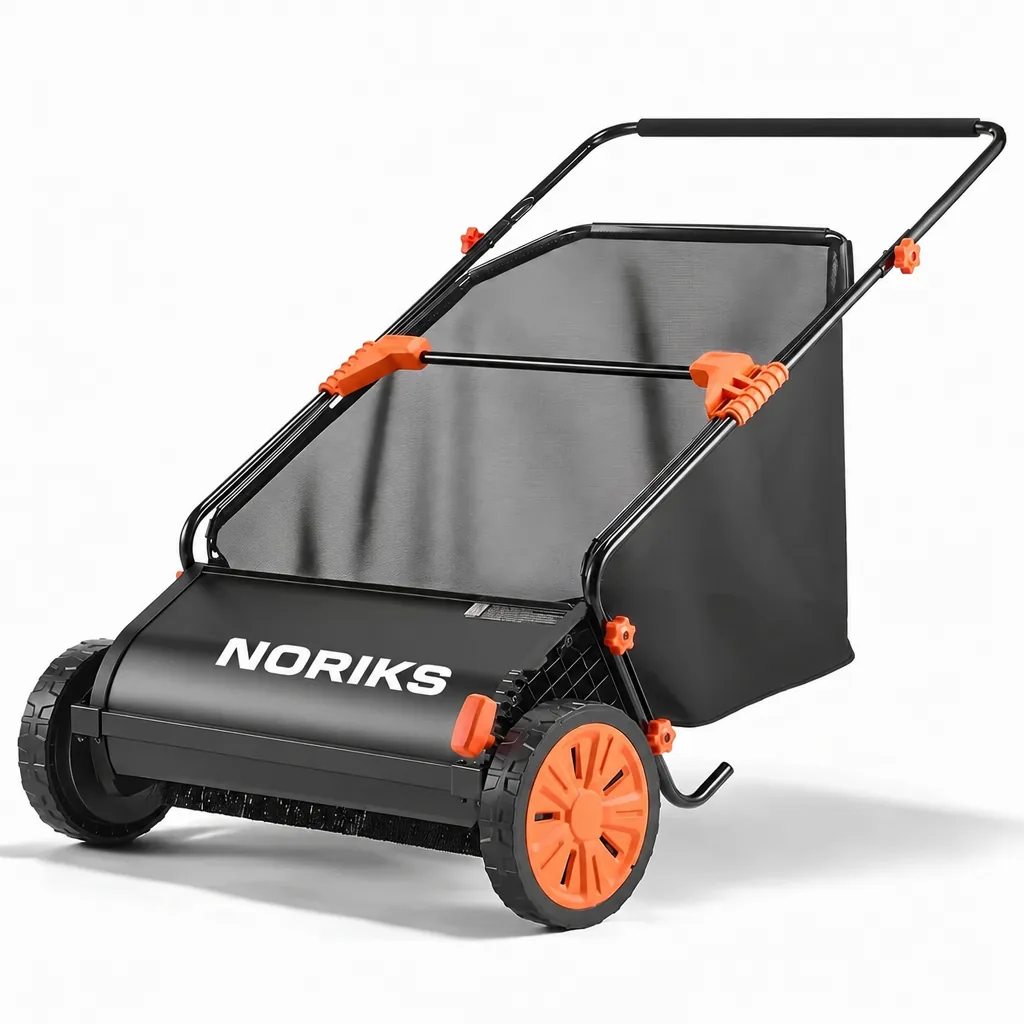
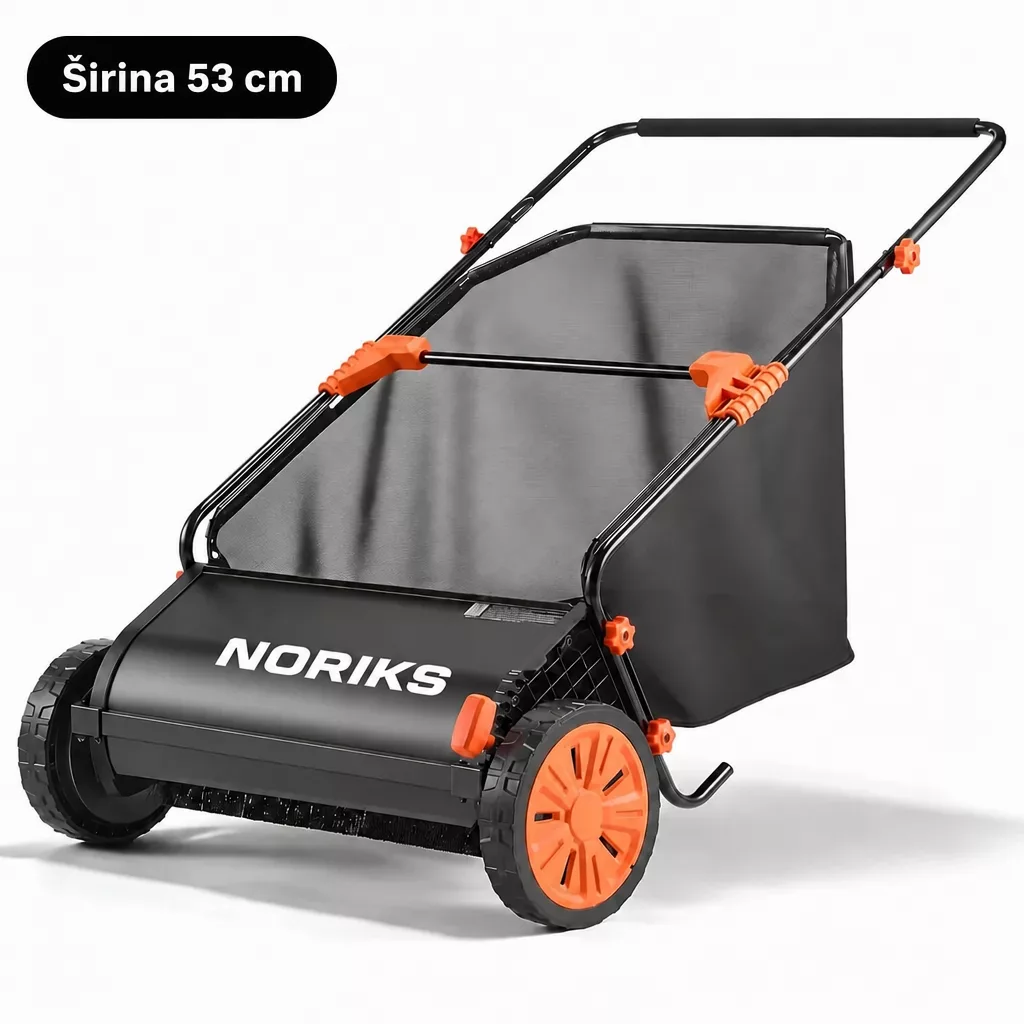
Sweeper: galerija spet 9 slik kot original (66 in 76 cm z NORIKS), napis sirine na slikah 53/66/76 cm, vsaka kartica ponude in sekcija velikosti s sliko svoje velikosti - po Davidovem komentarju

diff --git a/wp-content/themes/noriks/template_parts/product-bottom/why-sweeper.php b/wp-content/themes/noriks/template_parts/product-bottom/why-sweeper.php
@@ -25,7 +25,7 @@ if ( ! defined( 'ABSPATH' ) ) { exit; }
 <section class="wssweeper__s wssweeper__s--bg"><div class="wssweeper__v wssweeper__dva wssweeper__dva--rev"><div class="wssweeper__media wssweeper__media--cela"><img src="<?php echo esc_url( get_template_directory_uri() . '/img/sweeper/noriks-sweeper-otpad.webp' ); ?>" alt="Čisti puno više od samog lišća" loading="eager" decoding="async"></div><div><div class="wssweeper__kicker">Ne samo lišće</div><h2 class="wssweeper__h2">Čisti puno više od <em>samog lišća</em></h2><p class="wssweeper__p">Pokošena trava, lišće, borove iglice, slama, sitne grančice, žir, plodovi likvidambara, ljuske oraha i lagani filc nakon prozračivanja travnjaka – NORIKS Sweeper pokupi sve što vaše dvorište baci pred vas.</p><p class="wssweeper__p">Trostruke rotirajuće četke u obliku slova V zahvaćaju i teže, okrugle komade koji se grabljama provuku kroz zupce. Visinu četki podešavate u 10 razina, pa ih prilagodite gustoći trave i vrsti otpada.</p><p class="wssweeper__p">Radi i na tvrdim površinama: prilazu, pločniku, terasi i umjetnoj travi. Suhi izmet ljubimca koji leži na površini travnjaka također pokupi kao i ostali otpad.</p><ul class="wssweeper__kv"><li><em>Travnjak</em> – pokošena trava, lišće, iglice, filc</li><li><em>Teži otpad</em> – žir, češeri, orasi, grančice</li><li><em>Tvrde površine</em> – prilaz, staze, terasa, umjetna trava</li></ul><p class="wssweeper__zak">Jedan alat za cijelu sezonu – od proljetne košnje do jesenskog lišća.</p></div></div></section>
 <section class="wssweeper__s"><div class="wssweeper__v"><div class="wssweeper__kicker wssweeper__c">Fotografije kupaca</div><h2 class="wssweeper__h2 wssweeper__c">Najbolji travnjak – <em>bez rizika</em></h2><p class="wssweeper__p wssweeper__c">Isprobajte NORIKS Sweeper kod kuće. Ako vam ne olakša čišćenje dvorišta, vratite ga u 30 dana i dobivate povrat novca. Ovako izgleda njegov posao u dvorištima naših kupaca.</p><div class="wssweeper__grid wssweeper__g3"><div class="wssweeper__k"><div class="wssweeper__km"><img src="<?php echo esc_url( get_template_directory_uri() . '/img/sweeper/noriks-sweeper-kupac-1.webp' ); ?>" alt="Puna vreća lišća nakon jednog prolaza preko travnjaka" loading="eager" decoding="async"></div><div class="wssweeper__kt"><strong>Puna vreća lišća nakon jednog prolaza preko travnjaka</strong></div></div><div class="wssweeper__k"><div class="wssweeper__km"><img src="<?php echo esc_url( get_template_directory_uri() . '/img/sweeper/noriks-sweeper-kupac-2.webp' ); ?>" alt="Lišće skupljeno s umjetne trave uz ogradu" loading="eager" decoding="async"></div><div class="wssweeper__kt"><strong>Lišće skupljeno s umjetne trave uz ogradu</strong></div></div><div class="wssweeper__k"><div class="wssweeper__km"><img src="<?php echo esc_url( get_template_directory_uri() . '/img/sweeper/noriks-sweeper-kupac-3.webp' ); ?>" alt="Spreman za čišćenje prilaza ispred kuće" loading="eager" decoding="async"></div><div class="wssweeper__kt"><strong>Spreman za čišćenje prilaza ispred kuće</strong></div></div><div class="wssweeper__k"><div class="wssweeper__km"><img src="<?php echo esc_url( get_template_directory_uri() . '/img/sweeper/noriks-sweeper-kupac-4.webp' ); ?>" alt="Borove iglice pokupljene bez grablji" loading="eager" decoding="async"></div><div class="wssweeper__kt"><strong>Borove iglice pokupljene bez grablji</strong></div></div><div class="wssweeper__k"><div class="wssweeper__km"><img src="<?php echo esc_url( get_template_directory_uri() . '/img/sweeper/noriks-sweeper-kupac-5.webp' ); ?>" alt="Lagano guranje i po suhoj, neravnoj travi" loading="eager" decoding="async"></div><div class="wssweeper__kt"><strong>Lagano guranje i po suhoj, neravnoj travi</strong></div></div><div class="wssweeper__k"><div class="wssweeper__km"><img src="<?php echo esc_url( get_template_directory_uri() . '/img/sweeper/noriks-sweeper-kupac-6.webp' ); ?>" alt="Pokošena trava ravno u vreću nakon košnje" loading="eager" decoding="async"></div><div class="wssweeper__kt"><strong>Pokošena trava ravno u vreću nakon košnje</strong></div></div></div><p class="wssweeper__zak">★★★★★ Ocjena 4,8/5 – više od 120.000 zadovoljnih NORIKS kupaca.</p></div></section>
 <section class="wssweeper__s wssweeper__s--bg"><div class="wssweeper__v wssweeper__dva"><div class="wssweeper__media"><img src="<?php echo esc_url( get_template_directory_uri() . '/img/sweeper/noriks-sweeper-galerija-4.webp' ); ?>" alt="Lako se sprema kad je posao gotov" loading="eager" decoding="async"></div><div><div class="wssweeper__kicker">Spremanje</div><h2 class="wssweeper__h2">Lako se sprema <em>kad je posao gotov</em></h2><p class="wssweeper__p">NORIKS Sweeper je jednako jednostavno spremiti kao i koristiti. Sabirna vreća i ručka se skidaju, pa zauzima puno manje mjesta i stane u garažu ili vrtnu kućicu između dva čišćenja.</p><p class="wssweeper__p">Sklapanje je brzo: glavni dio stiže već sastavljen, a vi samo pričvrstite ručku i sabirnu vreću te podesite visinu četki. Za to vam ne treba poseban alat ni posebno znanje.</p><p class="wssweeper__p">Vreća je od materijala otpornog na trganje i lako se podiže kako biste je ispraznili u kontejner ili kompost – bez prosipanja i bez prljavih ruku.</p><ul class="wssweeper__kv"><li>Skidajuća ručka i sabirna vreća</li><li>Glavni dio stiže predsastavljen</li><li>U paketu: čistač, sabirna vreća, pribor za montažu i upute</li></ul><p class="wssweeper__zak">Manje mjesta u garaži, više slobodnog vremena u dvorištu.</p></div></div></section>
-<section class="wssweeper__s"><div class="wssweeper__v"><div class="wssweeper__kicker wssweeper__c">Odabir veličine</div><h2 class="wssweeper__h2 wssweeper__c">Koja je veličina prava <em>za vaše dvorište?</em></h2><p class="wssweeper__p wssweeper__c">Sve veličine imaju isti metalni okvir, iste četke i iste razine visine. Širi čistač pokrije više površine u svakom prolazu.</p><div class="wssweeper__grid wssweeper__g3"><div class="wssweeper__k"><div class="wssweeper__km"><img src="<?php echo esc_url( get_template_directory_uri() . '/img/sweeper/noriks-sweeper-galerija-7.webp' ); ?>" alt="53 cm – mala dvorišta i uski prostori" loading="eager" decoding="async"></div><div class="wssweeper__kt"><strong>53 cm – mala dvorišta i uski prostori</strong><p>Do oko 1.000 m². Lako zaobilazi gredice, drveće i ograde, dovoljno je lagan da ga prenesete stepenicama i sklapa se ravno uz zid garaže.</p></div></div><div class="wssweeper__k"><div class="wssweeper__km"><img src="<?php echo esc_url( get_template_directory_uri() . '/img/sweeper/noriks-sweeper-galerija-5.webp' ); ?>" alt="66 cm – prosječno obiteljsko dvorište" loading="eager" decoding="async"></div><div class="wssweeper__kt"><strong>66 cm – prosječno obiteljsko dvorište</strong><p>Od 1.000 do 2.000 m². Najčešći izbor: pokrije više travnjaka u manje prolaza, a nadograđeni model hvata još više žira i iglica.</p></div></div><div class="wssweeper__k"><div class="wssweeper__km"><img src="<?php echo esc_url( get_template_directory_uri() . '/img/sweeper/noriks-sweeper-galerija-6.webp' ); ?>" alt="76 cm – velike parcele i dugi travnjaci" loading="eager" decoding="async"></div><div class="wssweeper__kt"><strong>76 cm – velike parcele i dugi travnjaci</strong><p>Od 2.000 m² naviše. Najmanje prolaza od svih veličina i najveća sabirna vreća, pa rjeđe stajete da biste je ispraznili.</p></div></div></div><p class="wssweeper__zak">Sve tri rade na isti način – razlika je samo u tome koliko površine pokrijete jednim prolazom.</p></div></section>
+<section class="wssweeper__s"><div class="wssweeper__v"><div class="wssweeper__kicker wssweeper__c">Odabir veličine</div><h2 class="wssweeper__h2 wssweeper__c">Koja je veličina prava <em>za vaše dvorište?</em></h2><p class="wssweeper__p wssweeper__c">Sve veličine imaju isti metalni okvir, iste četke i iste razine visine. Širi čistač pokrije više površine u svakom prolazu.</p><div class="wssweeper__grid wssweeper__g3"><div class="wssweeper__k"><div class="wssweeper__km"><img src="<?php echo esc_url( get_template_directory_uri() . '/img/sweeper/noriks-sweeper-galerija-6.webp' ); ?>" alt="53 cm – mala dvorišta i uski prostori" loading="eager" decoding="async"></div><div class="wssweeper__kt"><strong>53 cm – mala dvorišta i uski prostori</strong><p>Do oko 1.000 m². Lako zaobilazi gredice, drveće i ograde, dovoljno je lagan da ga prenesete stepenicama i sklapa se ravno uz zid garaže.</p></div></div><div class="wssweeper__k"><div class="wssweeper__km"><img src="<?php echo esc_url( get_template_directory_uri() . '/img/sweeper/noriks-sweeper-galerija-8.webp' ); ?>" alt="66 cm – prosječno obiteljsko dvorište" loading="eager" decoding="async"></div><div class="wssweeper__kt"><strong>66 cm – prosječno obiteljsko dvorište</strong><p>Od 1.000 do 2.000 m². Najčešći izbor: pokrije više travnjaka u manje prolaza, a nadograđeni model hvata još više žira i iglica.</p></div></div><div class="wssweeper__k"><div class="wssweeper__km"><img src="<?php echo esc_url( get_template_directory_uri() . '/img/sweeper/noriks-sweeper-galerija-9.webp' ); ?>" alt="76 cm – velike parcele i dugi travnjaci" loading="eager" decoding="async"></div><div class="wssweeper__kt"><strong>76 cm – velike parcele i dugi travnjaci</strong><p>Od 2.000 m² naviše. Najmanje prolaza od svih veličina i najveća sabirna vreća, pa rjeđe stajete da biste je ispraznili.</p></div></div></div><p class="wssweeper__zak">Sve tri rade na isti način – razlika je samo u tome koliko površine pokrijete jednim prolazom.</p></div></section>
 <section class="wssweeper__s wssweeper__s--bg npg-s"><?php $npg = array( 'izdelek' => 'NORIKS Sweeper', 'barva' => '#fe5603' ); include __DIR__ . '/noriks-pogoji.php'; ?></section>
 </div>
 <style>

diff --git a/wp-content/plugins/orto-product/orto-product.php b/wp-content/plugins/orto-product/orto-product.php
@@ -1095,7 +1095,8 @@ function gck_render_bundle_selector() {
     $gck_premium_cards = has_term( array( 'orto-bodysculpt', 'orto-travelvac', 'orto-kleanpro', 'orto-leggings', 'orto-corgifit', 'orto-sconces', 'orto-woodsalve', 'orto-cardwallet', 'orto-clickwallet', 'orto-novaflow', 'orto-biochips', 'orto-sweeper', 'orto-puretitan', 'orto-wakealarm', 'orto-earcalm', 'orto-seamthong', 'orto-slipshort', 'orto-kneesleeve', 'orto-popuptent', 'orto-twisthook', 'orto-lumiwand', 'orto-topper', 'orto-brewer', 'orto-elowen', 'orto-runshort', 'orto-comptank', 'orto-capri', 'orto-supreme', 'orto-skinlift', 'orto-gripsocks', 'orto-nyslipper', 'orto-boots', 'orto-tank', 'orto-boxbag', 'orto-pawfence', 'orto-pillow', 'orto-wallet', 'orto-defender', 'orto-straw', 'orto-backrelax', 'orto-pawfile', 'orto-rollpro', 'orto-sleekbrush', 'orto-grandpa', 'orto-perfclogs', 'orto-straw2', 'orto-adapter', 'orto-sheer', 'orto-kneewrap', 'orto-spotminder', 'orto-spotpro', 'orto-busyboard', 'orto-emsbunion', 'orto-tactical', 'orto-ratchet', 'orto-steampro', 'orto-neckgrip', 'orto-diskret', 'orto-titancrep', 'orto-leash', 'orto-shiftclog', 'orto-beltfit', 'orto-mamabelt', 'orto-tusfilter', 'orto-leakbrief', 'orto-dryseam' ), 'product_cat', $product_id );
     if ( $gck_premium_cards && empty( $gck_offer_imgs ) ) {
         if ( has_term( 'orto-sweeper', 'product_cat', $product_id ) ) {
-            $gck_offer_imgs = array_fill( 0, 3, 'sweeper/noriks-sweeper-galerija-6.webp' );
+            // David 16.11.: vsaka kartica slika svoje velikosti (53 / 66 / 76 cm, napis sirine na sliki)
+            $gck_offer_imgs = array( 'sweeper/noriks-sweeper-galerija-6.webp', 'sweeper/noriks-sweeper-galerija-8.webp', 'sweeper/noriks-sweeper-galerija-9.webp' );
         } elseif ( has_term( 'orto-puretitan', 'product_cat', $product_id ) ) {
             $gck_offer_imgs = array( 'puretitan/noriks-puretitan-komplet-1.webp', 'puretitan/noriks-puretitan-komplet-2.webp', 'puretitan/noriks-puretitan-komplet-3.webp' );
         } elseif ( has_term( 'orto-popuptent', 'product_cat', $product_id ) ) {
